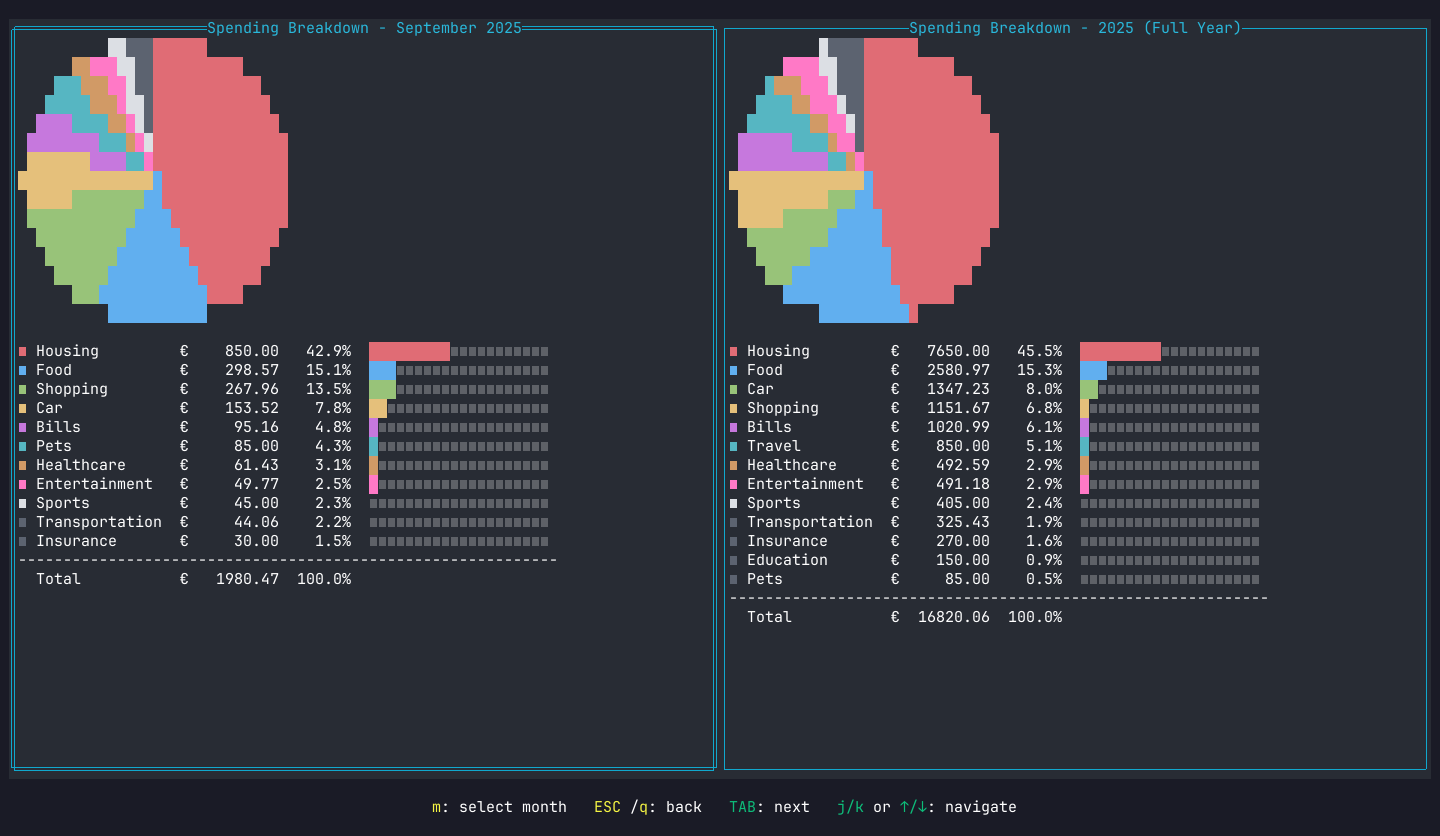
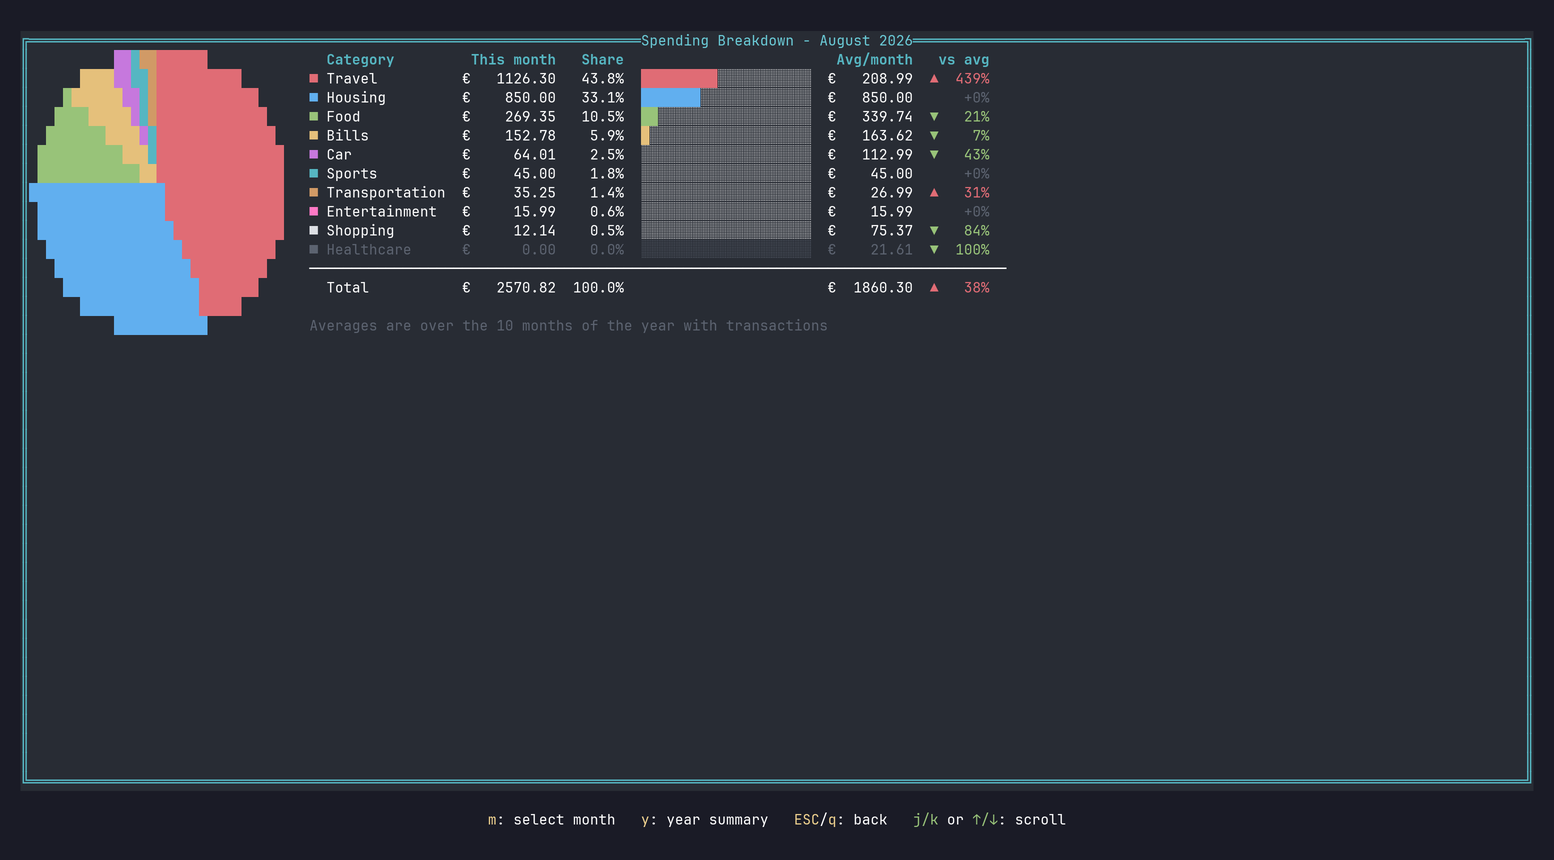
update readme screenshots to reflect the latest design

diff --git a/Readme.md b/Readme.md
@@ -1,20 +1,85 @@
 # expense tracking CLI tool (TUI)
 Track your expenses in the terminal
 
+Navigating the Menus
+![Recording](assets/recording.gif)
+
+Login
+![Login](assets/login.png)
 List of Transactions Page
 ![ListTxs](assets/visualize-transactions.png)
+Monthly Spending Breakdown by Category
+![SpendingBreakdown](assets/spending-breakdown.png)
 Year Summary and P&L
 ![Summary](assets/year-overview.png)
-Spending Breakdown by Category
-![SpendingBreakdown](assets/spending-breakdown.png)
 Add Transactions
 ![AddTx](assets/add-transactions.png)
 Update Transactions
 ![UpdateTx](assets/update-transactions.png)
 Delete Transactions
 ![DeleteTx](assets/delete-transactions.png)
-Navigating the Menus
-![Recording](assets/recording.gif)
+Search Transactions
+![Search](assets/search.png)
+Undo / Redo
+![Undo](assets/undo.png)
+
+## Features
+
+- **Monthly transactions view** - income, expenses and investments for a month side by side, with a month summary (P&L, savings, savings after investing and a split bar). Opens on the latest month that has transactions.
+- **Add / update / delete** transactions. New transactions can be added to any month and year, not only the one currently shown. Descriptions are limited to 160 characters.
+- **Search** - filter the focused table by text as you type.
+- **Undo / redo** - every add, update and delete can be undone and redone. The app then jumps to the month and table where the change happened. History holds the last 100 changes and only lasts for the current session.
+- **Monthly spending breakdown** - expenses for a month grouped by category, with a pie chart, each category's share, and how it compares to the average month of that year.
+- **Year summary** - P&L for the whole year, month-by-month results with savings rate, and a full-year spending breakdown. Press Enter on a month to open its spending breakdown.
+- **Encrypted storage** - the database is encrypted with a password you set on first run (see below).
+
+## Keybindings
+
+Vim-style motions work everywhere: `j`/`k` = down/up, `h`/`l` = previous/next (same as `Shift+TAB`/`TAB`).
+
+Transactions view
+
+| Key | Action |
+| --- | --- |
+| `a` | add a transaction (type preselected from the focused table) |
+| `e` / `u` | update the selected transaction |
+| `d` | delete the selected transaction |
+| `/` | search the focused table (`Enter` keeps the filter and returns to the table, `ESC` clears it) |
+| `ctrl+z` | undo the last change |
+| `ctrl+y` / `ctrl+r` | redo |
+| `m` | select a month |
+| `y` | select a year and open its summary |
+| `b` | spending breakdown for the shown month |
+| `TAB` / `Shift+TAB`, `l` / `h`, `→` / `←` | next / previous table |
+| `j` / `k`, `↓` / `↑` | move between rows (wraps around) |
+| `ESC` / `q` | quit |
+
+Spending breakdown
+
+| Key | Action |
+| --- | --- |
+| `m` | pick another month of the same year |
+| `y` | open the year summary (`ESC` there returns to the breakdown) |
+| `j` / `k`, `↓` / `↑` | scroll |
+| `ESC` / `q` | back |
+
+Year summary
+
+| Key | Action |
+| --- | --- |
+| `Enter` | open the spending breakdown of the selected month |
+| `TAB` / `Shift+TAB` | switch between panels (scroll long panels with `j` / `k`) |
+| `ESC` / `q` | back |
+
+Forms and pop-ups: `TAB` / `Shift+TAB` move between fields, `Enter` opens dropdowns and presses buttons, `ESC` / `q` go back when a dropdown or button is focused (inside a text field they are ignored / typed so you don't lose input). `ESC` on the login screen quits.
+
+## Categories
+
+| Type | Categories |
+| --- | --- |
+| Income | salary, transfers, dividends, capitalGains, rentals, interest, selfEmployment, insurance, refunds |
+| Expense | housing, bills, food, car, transportation, shopping, entertainment, travel, healthcare, insurance, taxes, renovation, education, kids, pets, sports, donations, fees, services, transfers, cash |
+| Investment | stocks, bonds, funds, insurance, privateEquity, realEstate, deposits, retirement, p2p, crypto, forex, options, commodities |
 
 ## Installation 
 
@@ -105,7 +170,6 @@ The expense tracking tool now supports configurable storage backends. Primary st
 
 ### Environment Variables (optional)
 
-- `EXPENSE_STORAGE_TYPE`: Set to `"sqlite"` (default) (previously JSON was supported, but was deprecated)
 - `EXPENSE_UNENCRYPTED_DB_PATH`: Path to unencrypted SQLite database file (default: `"~/.expense-tracking/transactions.db"`)
 - `EXPENSE_ENCRYPTED_DB_PATH`: Path to encrypted database file (default: `"~/.expense-tracking/transactions.enc"`)
 - `EXPENSE_LOG_PATH`: Path to log file (default: `"~/.expense-tracking/expense-tracking.log"`)
@@ -143,13 +207,24 @@ Note: Both files must be restored together for the encryption to work properly. 
 
 ## Compile source
 
-Dependencies
+Dependencies (cross compilers, only needed for `make compile`)
 ```sh
+# Debian / Ubuntu
 sudo apt install gcc-aarch64-linux-gnu
 sudo apt install gcc-mingw-w64
+
+# Arch
+sudo pacman -S aarch64-linux-gnu-gcc mingw-w64-gcc
 ```
 
-Compile
+Other make targets
+```sh
+make build   # native build to bin/expense-tracking
+make run     # go run .
+make test    # go test -v .
+```
+
+Compile for all platforms
 ```sh
 make compile
 
